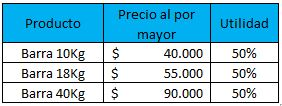
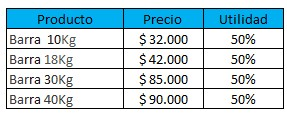
add

diff --git a/pdv.html b/pdv.html
@@ -198,6 +198,39 @@
                     </div>
                 </div>
             </div>
+
+
+<!-- PRUEBAA  -->
+
+
+            <div class="accordion-item">
+                <h2 class="accordion-header" id="headingFour">
+                    <button class="accordion-button collapsed" type="button" data-mdb-toggle="collapse"
+                        data-mdb-target="#collapseFour" aria-expanded="true" aria-controls="collapseFour">
+                        <img src="img/logo2.png" class="rounded-circle" height="25" alt="" loading="lazy" />
+                        PRECIOS AL POR MAYOR - KITS
+                    </button>
+                </h2>
+                <div id="collapseFour" class="accordion-collapse collapse" aria-labelledby="headingFour"
+                    data-mdb-parent="#accordionExample">
+                    <div class="accordion-body">
+                        <strong>Precio Kits</strong><br> <br>
+                         
+                         
+                            Precios al por mayor <br><br>
+                            <strong>Nota:</strong> <br>
+
+                            Nuestros precios pueden variar según la negociación y su ubicación.
+
+                        <br> <br><img src="./img/preciokits.jpg" class="card-body width=65%" height="50%" alt="" >
+
+                    </div>
+                </div>
+            </div>
+
+<!-- PRUBEAA-->
+
+
            
         </div>
     </div>
